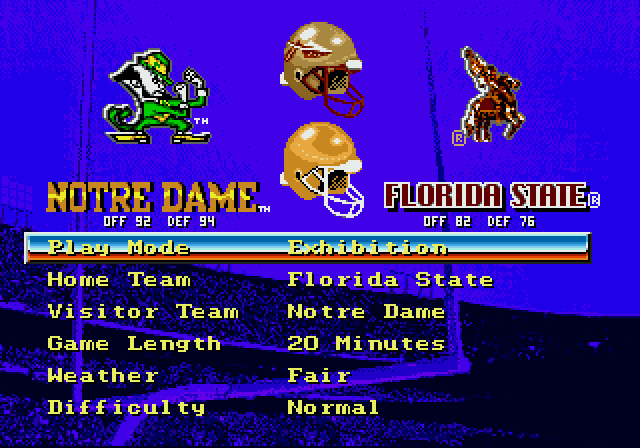
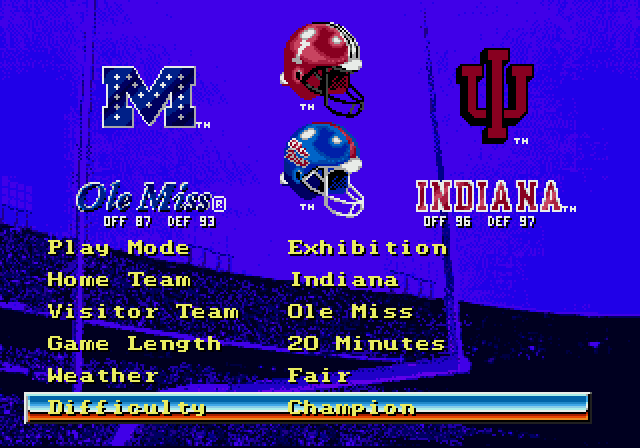
README: screenshots for plays, the 6-button gamepad features and the 2026 conferences
- Shotgun page with HB SWING and RPO, FLIP PLAY on the play-call screen,
  pre-snap motion (picked receiver and the motion across the formation)
- 5-receiver XY passing (bullet renamed), Y on offense, Y on defense, Z energy
- 2026 Season Edition: SEC, Big Ten, Big 12 and ACC rankings after a simulated week
- Game Setup: Indiana vs Ole Miss with Difficulty set to Champion

All shots from the v1.1.0 2026 Season Edition ROM, 2x.

Claude-Session: https://claude.ai/code/session_013KgxyTnuPDLEFJ3nNMZsJQ

diff --git a/README.md b/README.md
@@ -64,19 +64,38 @@ The patches are in the [`patches`](patches) folder. Both Elevated editions use F
 - **Two new Shotgun plays:**
   - **RPO**: press B within about a second of the snap to pitch to the HB. Otherwise the QB keeps it and rolls out right, and you pass as usual. The CPU pitches half the time.
   - **HB SWING** (replaces HB SHOV.PASS): the HB swings across in front of the QB and up the sideline.
+
+  <img width="400" height="280" alt="Shotgun plays page with HB SWING and RPO" src="images/rpo_hb_swing.png" />
+
 - **Flip Play.** A FLIP PLAY tile replaces Instant Replay on the play-call screen. It mirrors the formation, every assignment and the play diagrams.
+
+  <img width="400" height="280" alt="Play-call screen with FLIP PLAY on and the formations mirrored" src="images/flip_play.png" />
+
 - **Pre-snap motion.** Send a back or receiver in motion before the snap: toward the middle he crosses the formation, toward the sideline he takes a short motion, and you can bring him back. Your selected defender follows him until you move the defender yourself, and CPU defenders in man coverage go with him.
+
+  <img width="800" alt="Pre-snap motion: the receiver picked for motion (left) and the same receiver crossing the formation, with his defender following (right)" src="images/motion.png" />
 
 ### 6-button gamepad (Elevated)
 
 These need a 6-button gamepad. With a 3-button gamepad the game plays exactly as before.
 
-- **5-receiver passing.** X and Y throw to the 4th and 5th receivers, with their own icons. A/B/C work as before.
+- **5-receiver XY passing.** X and Y throw to the 4th and 5th receivers, with their own icons. A/B/C work as before.
+
+  <img width="400" height="280" alt="Pass play with the A, B, C, X and Y receiver icons" src="images/xy_passing.png" />
+
 - **Flip at the line.** Open the audible menu with A, then press X: the play flips and the players run to their mirrored spots.
 - **Pre-snap info**, while you hold the button before the snap:
   - **Y on offense:** the called play's art, and an icon with the jersey number over each receiver.
+
+    <img width="400" height="280" alt="Y on offense: the play art and the receiver icons with jersey numbers" src="images/presnap_offense.png" />
+
   - **Y on defense:** the defensive call's art, and a marker over each defender: R (rush), Z (zone), M (man) or S (spy).
+
+    <img width="400" height="280" alt="Y on defense: the defensive call's art and the R, Z, M and S markers" src="images/presnap_defense.png" />
+
   - **Z:** energy bars over every player.
+
+    <img width="400" height="280" alt="Z: energy bars over every player" src="images/presnap_energy.png" />
 
 ### CPU and difficulty (Elevated)
 
@@ -98,12 +117,15 @@ These need a 6-button gamepad. With a 3-button gamepad the game plays exactly as
 - **Season-sim fix.** When the original game simulated CPU-vs-CPU season games, it read each team's offense and defense ratings backwards, so a great defense scored points and a great offense kept the other team's score down. Fixed.
 - **Team OFF/DEF ratings on Game Setup**, under each team's logo, as modern-style overall ratings (OVR). In the Elevated edition they come from EA's original team ratings; in the 2026 Season Edition from the 2026 rosters.
 
-<img width="400" height="280" alt="Game Setup with the OFF/DEF ratings and the Difficulty row" src="images/game_setup.png" />
+<img width="400" height="280" alt="Game Setup with the OFF/DEF ratings and the Difficulty row set to Champion" src="images/game_setup.png" />
 
 ### 2026 Season Edition only
 
 - **11 teams from College Football USA '97:** Kentucky, Indiana, Iowa, UCLA, Utah, Houston, Texas Tech, Oklahoma State, Wake Forest, Ole Miss and Oregon, in place of Pitt, Army, Kansas State, Wisconsin, Arizona, California, Stanford, Washington State, Boston College, Virginia and West Virginia.
 - **2026 conferences**, renamed SEC (11 teams), Big Ten (10), Big 12 (7, with Air Force) and ACC (8, with Notre Dame and Navy). Season schedules are random.
+
+  <img width="800" alt="Season rankings for the SEC, Big Ten, Big 12 and ACC after a simulated first week" src="images/conferences_2026.png" />
+
 - **2026 rosters**, converted from EA Sports College Football 27's player ratings (Week 9 update).
 - **CPU offense and defense styles** that follow each team's 2026 scheme.
 - **Team ratings from the 2026 rosters**, for the OVRs on Game Setup and the season sim.
